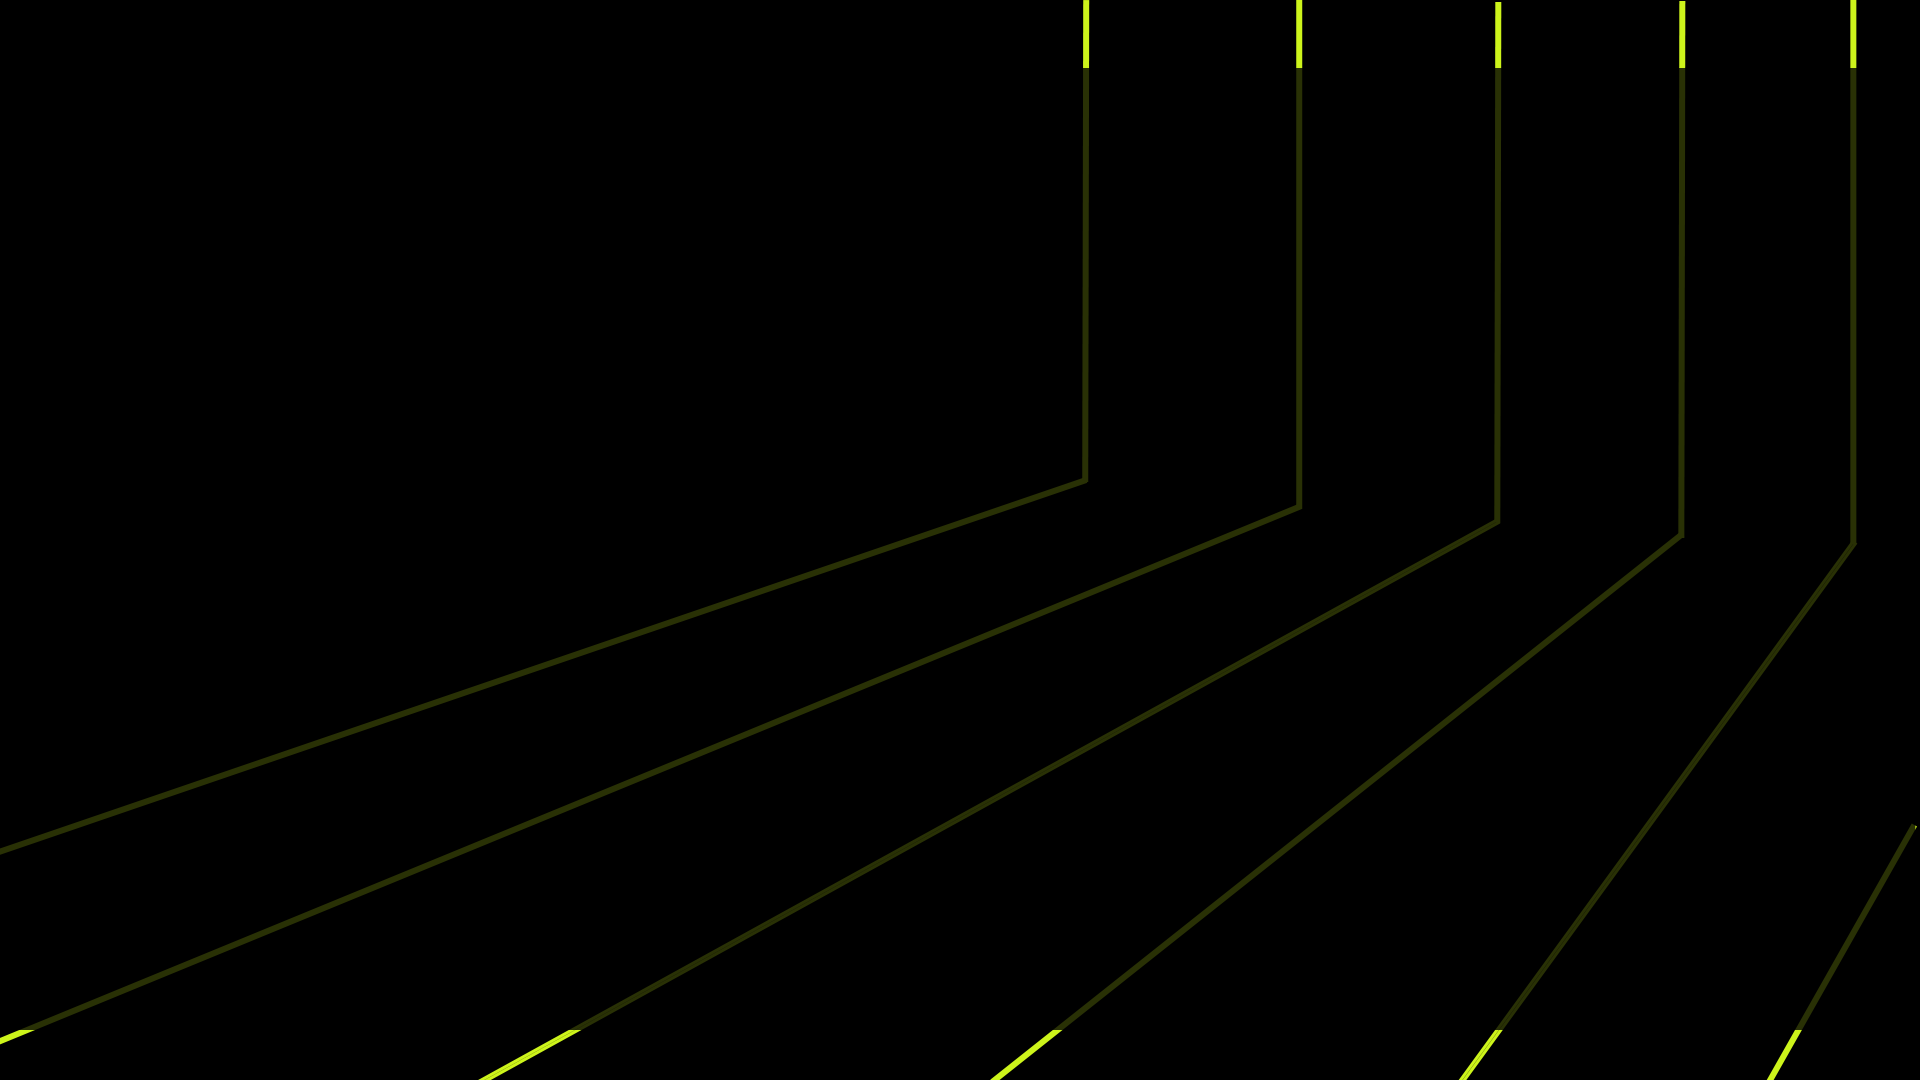
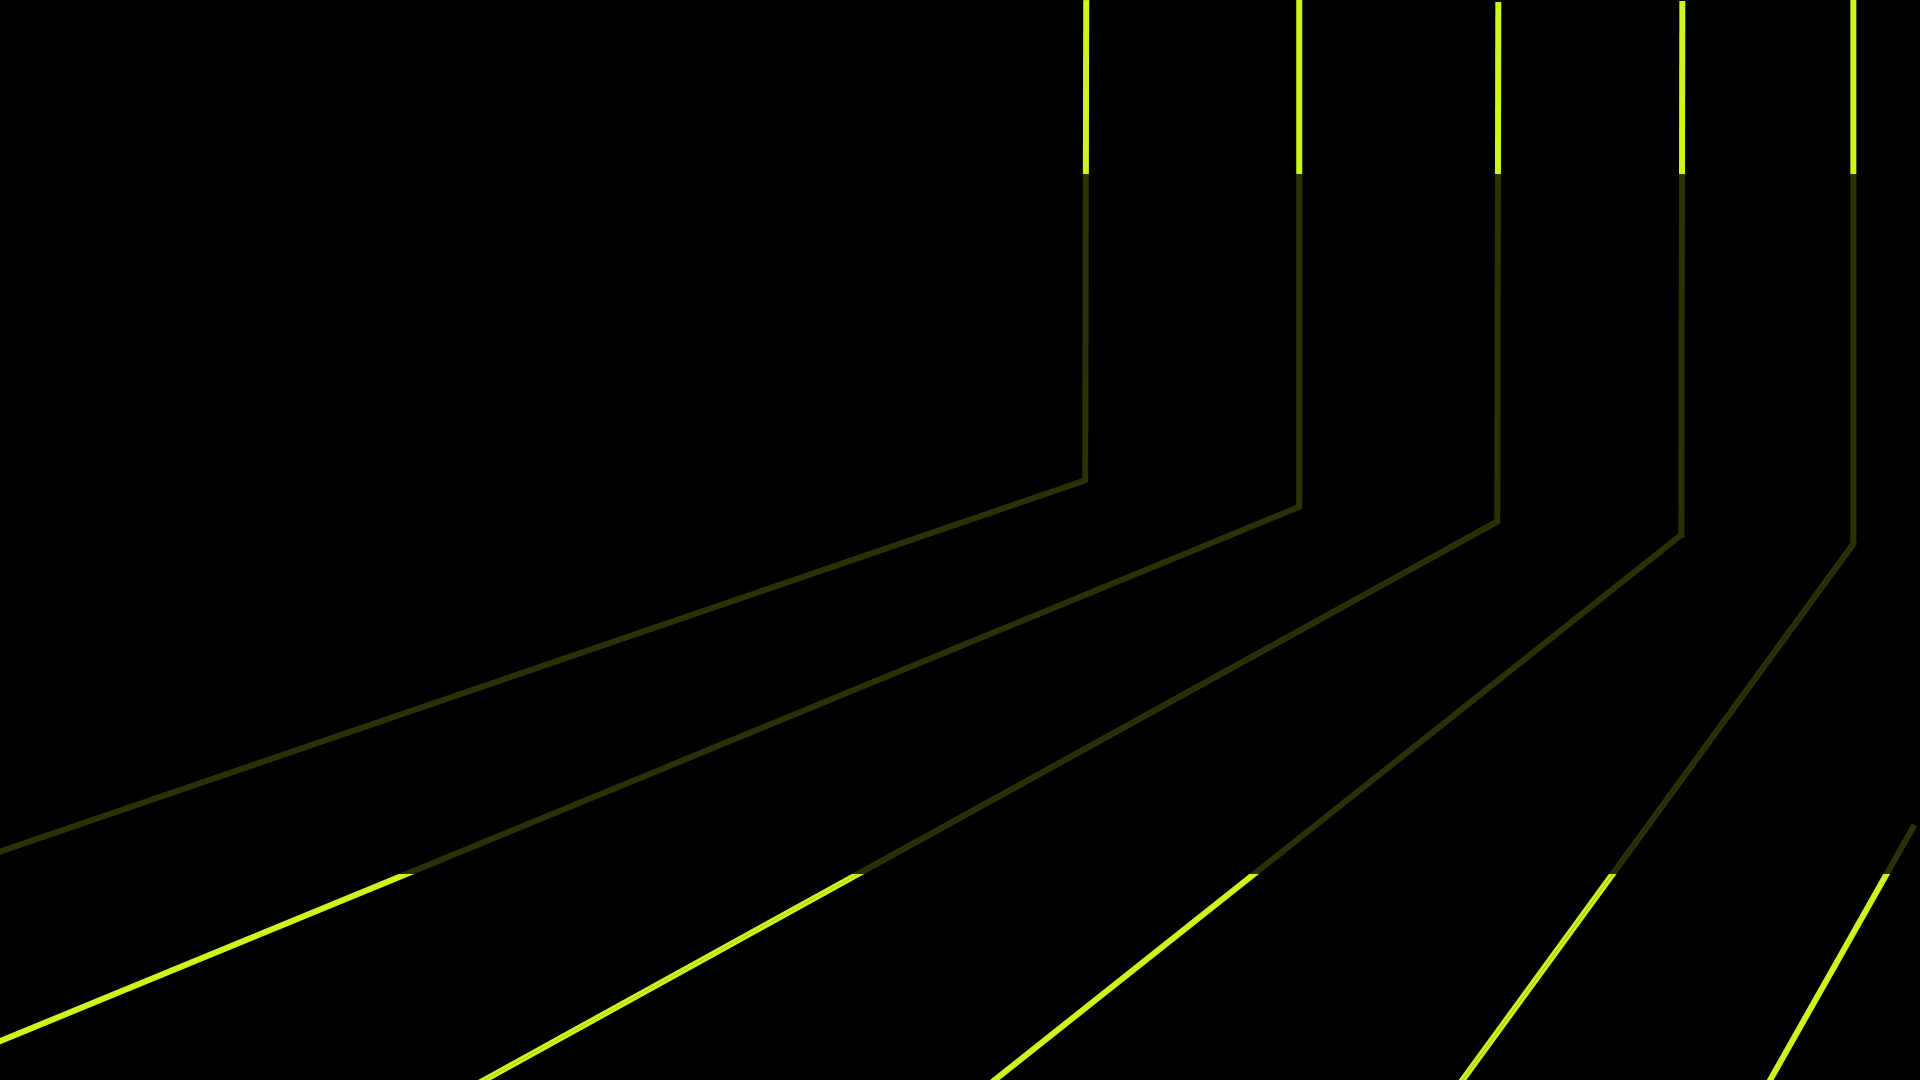
Inital commit

diff --git a/index.html b/index.html
@@ -89,7 +89,7 @@
       opportunity to maximise revenue around key events on the calendar. Our flexibility in design
       means we can offer Santa racing games - ideal for Christmas - and a 'Penalty Shoot-Out' to
       coincide with major football tournaments.</p>
-    <p>Becuase the games are created in HTML5, they can be played on a range of devices including
+    <p>Because the games are created in HTML5, they can be played on a range of devices including
       desktop, mobile and tablet.</p>
     <p>SIS On-Demand Seasonal Themed games all offer a variety of bets from simple fixed odds as
       well as forecast and tricast wagers and also offers a unique forecast slider which gives clear

diff --git a/src/style/css/styles.scss b/src/style/css/styles.scss
@@ -156,9 +156,9 @@ a {
   max-width: 100%;
   position: relative;
   margin: 2% 0 0 0;
-  // background-image: url("/src/lib/img/Beam-FadedBgd.png");
-  // background-position: center;
-  // background-repeat: no-repeat;
+  background-image: url("/src/lib/img/Slanted-BeamBgd.png");
+  background-position: center;
+  background-repeat: no-repeat;
 }
 /*    S2 - Upper Section    */
 .uppercontenttwo {
